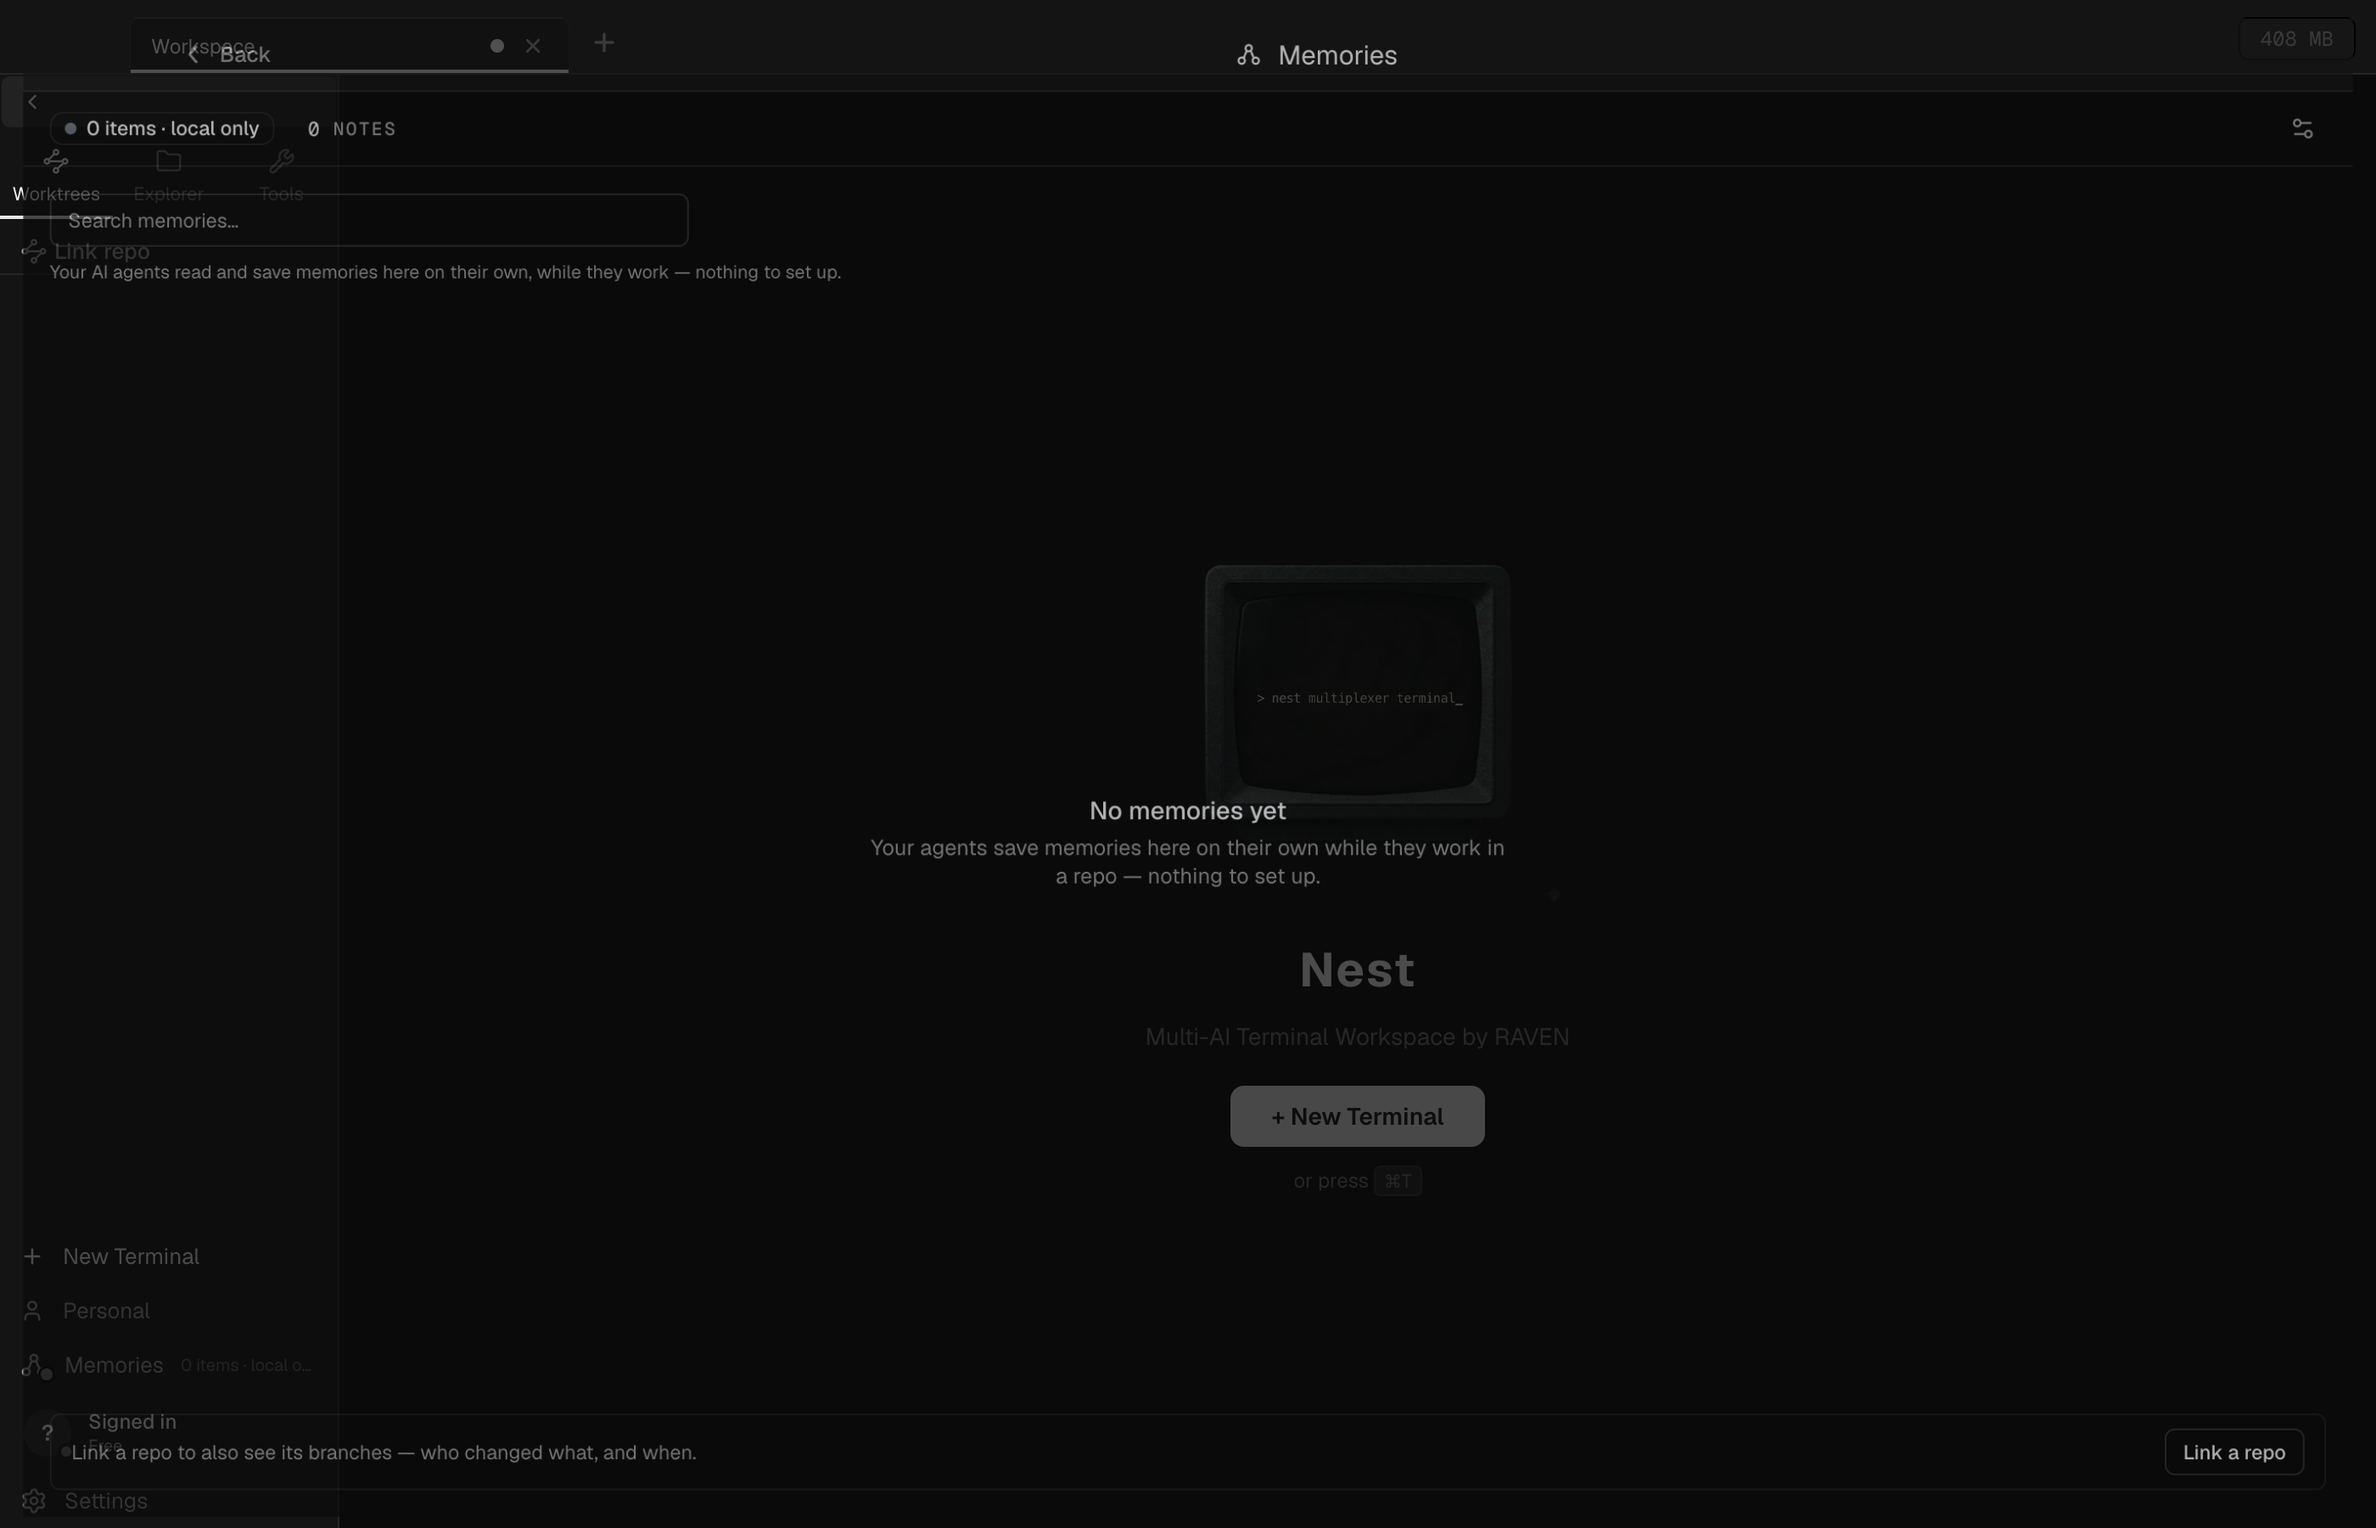
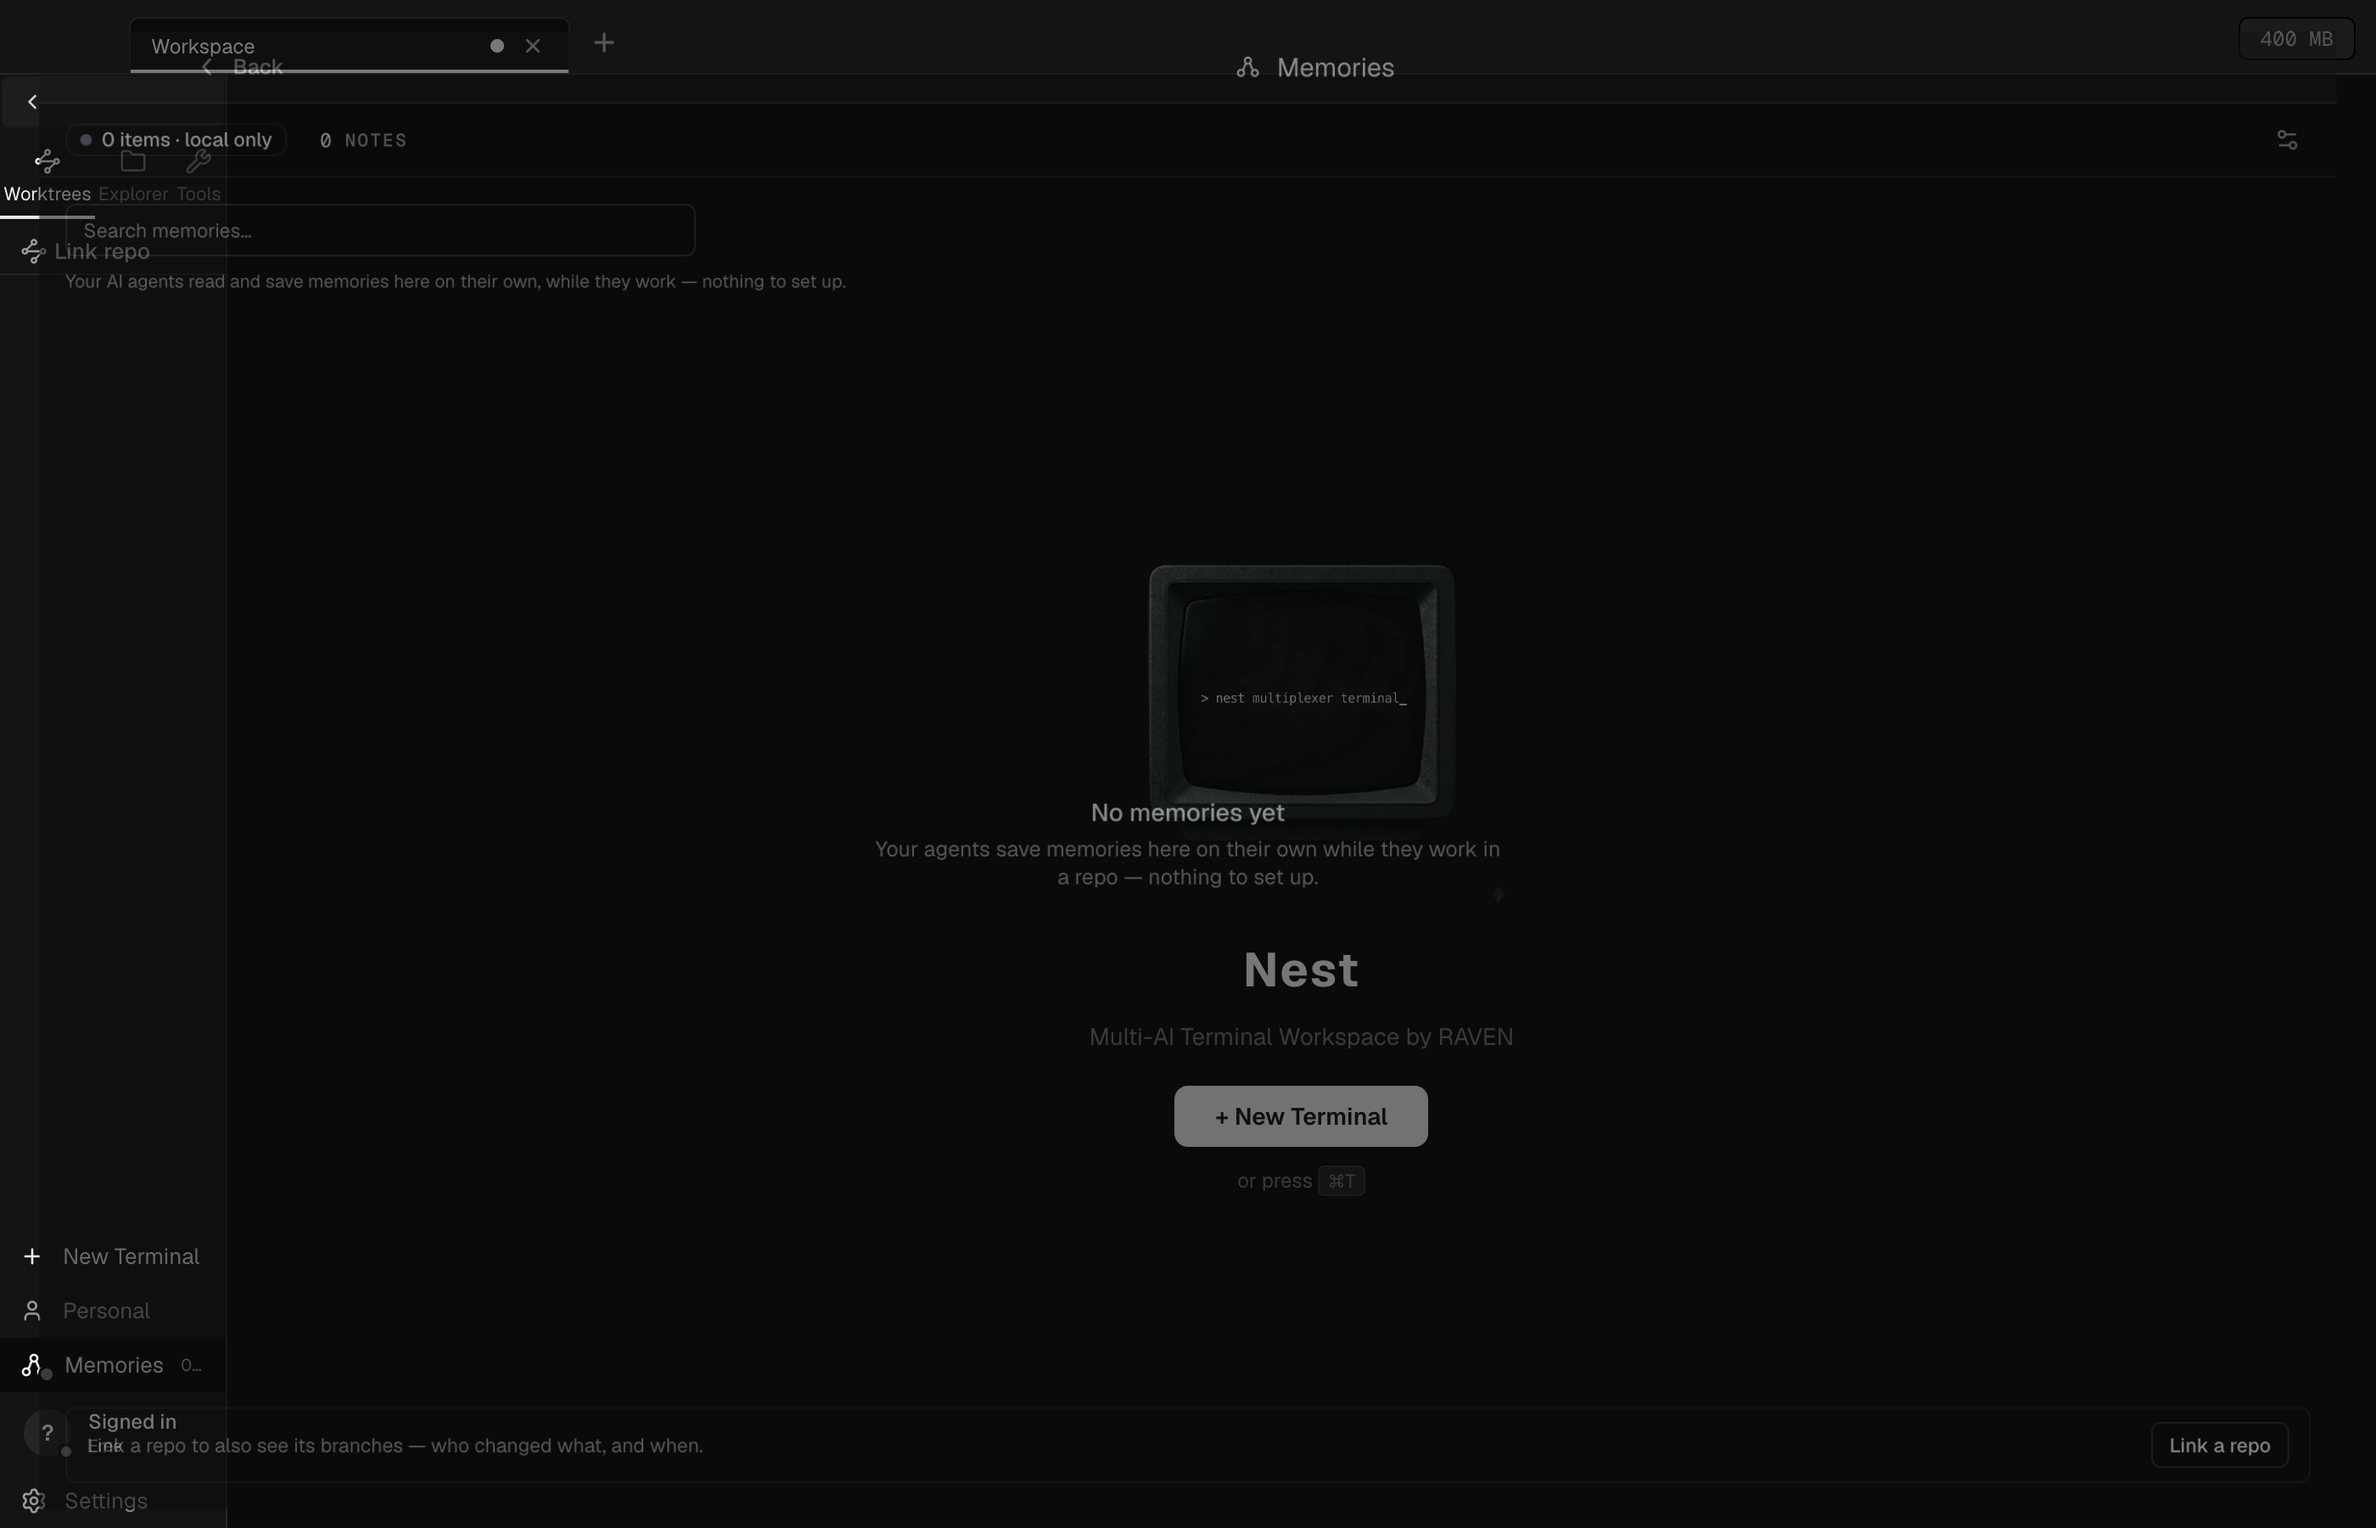
fix(grafo): el movimiento se sentia roto — eran los controles por default y el auto-encuadre
Dos causas, y la primera lo explica casi entero.

1. **TrackballControls.** Es lo que `3d-force-graph` usa por default
   (three-render-objects.mjs:486: `controlType = 'trackball'`), y es el peor de
   los tres con un trackpad: no tiene arriba ni abajo --rota sin limite y te deja
   el grafo de costado sin forma de enderezarlo-- no amortigua, y el scroll de
   dos dedos le llega como un zoom a saltos. Ahora usa `orbit`, que es el esquema
   que espera cualquiera: arrastrar rota manteniendo el horizonte, dos dedos
   hacen zoom continuo, el paneo no pierde el centro. Es una prop de
   INICIALIZACION (react-kapsule's initPropNames), se lee al construir el grafo.

2. **El auto-encuadre te sacaba la camara de las manos.** La simulacion se
   aquieta a los 4s (`cooldownTime`) y ahi dispara `onEngineStop`, que
   reencuadraba con una animacion de 400ms. Si en ese momento estabas
   arrastrando, perdias lo que estabas mirando. Ahora, apenas tocas el grafo
   --pointerdown o rueda, en fase de captura para que valga aunque el canvas se
   quede con el evento-- el encuadre automatico se calla. Un conjunto de datos
   NUEVO (entrar a un proyecto, prender las aristas inferidas) si vuelve a
   encuadrar: es otro grafo, y dejarlo con la camara del anterior lo deja fuera
   de cuadro.

De paso, `enableNodeDrag` estaba en false por precaucion, y lo unico que lograba
era que cualquier gesto empezado sobre un nodo no hiciera nada. Prendido:
[…]

diff --git a/src/components/MemoryGraph3D.tsx b/src/components/MemoryGraph3D.tsx
@@ -68,6 +68,14 @@ export default function MemoryGraph3D({ data, selectedId, onSelect, showLabels }
   const boxRef = useRef<HTMLDivElement | null>(null)
   const fgRef = useRef<ForceGraphMethods<GraphNodeDatum, GraphLinkDatum> | undefined>(undefined)
   const [size, setSize] = useState<{ w: number; h: number } | null>(null)
+  /**
+   * Si el usuario ya movió la cámara, el encuadre automático NO vuelve a tocarla.
+   *
+   * Sin esto el grafo se sentía roto: la simulación se aquieta a los 4s (`cooldownTime`) y
+   * ahí dispara `onEngineStop`, que reencuadraba con una animación de 400ms. Si en ese
+   * momento estabas arrastrando o haciendo zoom, la cámara te la sacaba de las manos.
+   */
+  const usuarioMovioLaCamara = useRef(false)
 
   useEffect(() => {
     const el = boxRef.current
@@ -115,6 +123,7 @@ export default function MemoryGraph3D({ data, selectedId, onSelect, showLabels }
   // resto vacío — que es exactamente la sensación de "no se entiende nada" que esta
   // pantalla venía a arreglar. El padding deja aire para que ningún nodo toque el borde.
   const encuadrar = useCallback(() => {
+    if (usuarioMovioLaCamara.current) return
     const fg = fgRef.current
     if (!fg) {
       // Si esto se ve, el ref no llegó — el mismo sintoma de la trampa de React 18 contra
@@ -160,6 +169,10 @@ export default function MemoryGraph3D({ data, selectedId, onSelect, showLabels }
   // grafo): si sólo se encuadrara al frenar el motor, el grafo nuevo quedaría con el
   // encuadre del viejo.
   useEffect(() => {
+    // Un conjunto de datos nuevo (entrar a un proyecto, prender las aristas inferidas) sí
+    // merece reencuadre: es otro grafo, y dejarlo con la cámara del anterior lo deja fuera
+    // de cuadro. Lo que no se pisa es un encuadre que el usuario hizo sobre ESTE grafo.
+    usuarioMovioLaCamara.current = false
     const t = setTimeout(encuadrar, 900)
     return () => clearTimeout(t)
   }, [data, encuadrar])
@@ -170,8 +183,18 @@ export default function MemoryGraph3D({ data, selectedId, onSelect, showLabels }
     onSelect(node.id === selectedId ? null : node.id)
   }, [onSelect, selectedId])
 
+  // Cualquiera de estos gestos es "me estoy moviendo yo": desde ahí el encuadre automático
+  // se calla. Van en el contenedor y en fase de captura para que valgan aunque el canvas de
+  // three se quede con el evento.
+  const marcarInteraccion = useCallback(() => { usuarioMovioLaCamara.current = true }, [])
+
   return (
-    <div ref={boxRef} className="h-full w-full">
+    <div
+      ref={boxRef}
+      className="h-full w-full"
+      onPointerDownCapture={marcarInteraccion}
+      onWheelCapture={marcarInteraccion}
+    >
       {size && size.w > 0 && size.h > 0 && (
         <ForceGraph3D<GraphNodeDatum, GraphLinkDatum>
           ref={fgRef}
@@ -181,6 +204,17 @@ export default function MemoryGraph3D({ data, selectedId, onSelect, showLabels }
           // Transparente: el fondo lo pone la card, así el cuadro pertenece a la pantalla en
           // vez de ser un recuadro negro pegado encima.
           backgroundColor="rgba(0,0,0,0)"
+          // `orbit`, no el `trackball` que viene por default.
+          //
+          // TrackballControls es el que hace que el grafo se sienta roto con un trackpad:
+          // no tiene arriba ni abajo (rota sin límite y te deja el grafo de costado), no
+          // amortigua, y el scroll de dos dedos le llega como un zoom a saltos. Orbit es el
+          // esquema que espera cualquiera: arrastrar rota manteniendo el horizonte, dos
+          // dedos hacen zoom continuo, y el paneo no pierde el centro.
+          //
+          // Es una prop de INICIALIZACIÓN (react-kapsule's `initPropNames`): se lee una vez
+          // al construir el grafo, así que cambiarla en caliente no haría nada.
+          controlType="orbit"
           showNavInfo={false}
           // 6, no el 4 por defecto: con pocos nodos un grafo de puntos chiquitos en una
           // caja de 320px se lee como ruido en vez de como una estructura.
@@ -215,7 +249,11 @@ export default function MemoryGraph3D({ data, selectedId, onSelect, showLabels }
           d3VelocityDecay={0.35}
           cooldownTime={4000}
           onEngineStop={encuadrar}
-          enableNodeDrag={false}
+          // Arrastrar un nodo lo mueve; arrastrar el fondo rota la cámara. Es exactamente
+          // el reparto de Obsidian, y es lo que hace que el grafo se sienta vivo en vez de
+          // una foto. Estaba apagado por precaución y lo que lograba era que todo gesto
+          // sobre un nodo no hiciera nada.
+          enableNodeDrag
         />
       )}
     </div>
